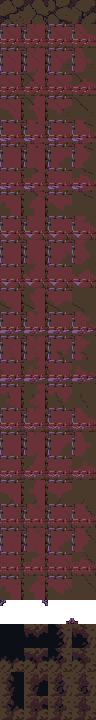
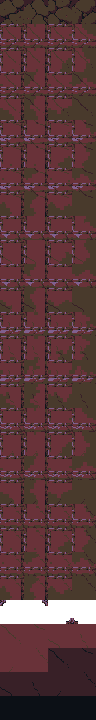
Make dungeon wall shading continuous across tile seams
Replace repeating directional cutouts with world-space contours sampling native PNG top, body and dark textures. Preserve angled coping and facades, and compose walls at native resolution before fractional scaling.

Re-record render.golden.json and render-calls.golden.json for the 20 intended sprite interior frames; all 85 other frames remain unchanged. Verify native texels, seam continuity, diagonal locality, fractional scaling, themes and toggles; update art, rendering, testing and gameplay docs.

Changed region(s): [[0.0, 0.8556, 1.0, 1.0]]

diff --git a/src/sprite-dungeon.ts b/src/sprite-dungeon.ts
@@ -3,7 +3,7 @@ import { tileRandom } from "./random.ts";
 import { themeAt, type TerrainTile } from "./themes.ts";
 import { kitImage } from "./sprite-kit.ts";
 import { wallAdjacencyMask } from "./area1-tileset.ts";
-import type { DungeonWallDepth } from "./wall-depth.ts";
+import { dungeonWallBands, type DungeonWallProfile } from "./wall-depth.ts";
 
 export const DUNGEON_MATERIALS = ["masonry", "stone", "earth"] as const;
 export type DungeonMaterial = typeof DUNGEON_MATERIALS[number];
@@ -24,7 +24,8 @@ export const DUNGEON_EDGE_ATLAS = "dungeon-edges";
 export const DUNGEON_BLEND_ATLAS = "dungeon-blends";
 export const DUNGEON_INFILL_ATLAS = "dungeon-infill";
 export const DUNGEON_CORE_FRAME = 12;
-export const DUNGEON_PADDING_FRAME = DUNGEON_CORNER_FRAME + 4;
+export const DUNGEON_CAP_FRAME = DUNGEON_CORNER_FRAME + 4;
+export const DUNGEON_SHADE_FRAME = DUNGEON_CAP_FRAME + DUNGEON_WALL_VARIANTS;
 
 /** Smooth, coordinate-hashed material patches, independent of generation
  * and its random stream. Both wall and floor at a position share material. */
@@ -101,26 +102,76 @@ export function drawDungeonFrame(c: CanvasRenderingContext2D, image: HTMLImageEl
   c.restore();
 }
 
+const wallImages = new Map<string, HTMLCanvasElement>();
+/** Compose at native resolution before scaling: clipping directly into a
+ * fractional-size ground cache can leave hairlines between pixel clusters. */
+export function drawDungeonGround(c: CanvasRenderingContext2D, tile: TerrainTile, diagonals: readonly DungeonDiagonal[] = [], profile?: DungeonWallProfile): boolean {
+  if (!tile.wall || !profile || profile.depth === 2 || typeof document === "undefined") return paintDungeonGround(c, tile, diagonals, profile);
+  const n = tile.neighbors;
+  const key = [tile.mode, themeAt(tile.mode, tile.height, tile.x, tile.y, tile.seed).decor, tile.seed, tile.x, tile.y,
+    n?.northWall, n?.eastWall, n?.southWall, n?.westWall, diagonals.join(","), profile.openings].join(":");
+  let canvas = wallImages.get(key);
+  if (!canvas) {
+    canvas = document.createElement("canvas"); canvas.width = canvas.height = 24;
+    const ctx = canvas.getContext("2d");
+    if (!ctx || !paintDungeonGround(ctx, tile, diagonals, profile)) return false;
+    if (wallImages.size >= 512) wallImages.clear();
+    wallImages.set(key, canvas);
+  }
+  c.save(); c.imageSmoothingEnabled = false; c.drawImage(canvas, 0, 0, 24, 24); c.restore();
+  return true;
+}
+
 /** Four quiet floors, six variants of sixteen wall shapes, and corners.
  * South-facing facades occupy eight pixels; north/side lips are shallow.
  * Everything stays inside the existing tile and collision footprint. */
-export function drawDungeonGround(c: CanvasRenderingContext2D, tile: TerrainTile, diagonals: readonly DungeonDiagonal[] = [], depth: DungeonWallDepth = 0, paddingMask = 15) {
+function paintDungeonGround(c: CanvasRenderingContext2D, tile: TerrainTile, diagonals: readonly DungeonDiagonal[], profile?: DungeonWallProfile) {
   const { mode, height, x, y, seed } = tile, tone = themeAt(mode, height, x, y, seed).decor;
   const images = imagesFor(mode, tone);
   if (!images) return false;
   const material = dungeonMaterial(mode, x, y, seed);
   const image = material === "earth" ? images.earth : images.surface;
-  if (tile.wall && depth === 2) { drawDungeonFrame(c, images.infill, DUNGEON_CORE_FRAME); return true; }
+  if (tile.wall && profile?.depth === 2) { drawDungeonFrame(c, images.infill, DUNGEON_CORE_FRAME); return true; }
   const edges = images.edges;
   const n = tile.neighbors;
   const mask = wallAdjacencyMask({ northWall: !!n?.northWall, eastWall: !!n?.eastWall, southWall: !!n?.southWall, westWall: !!n?.westWall });
-  const frame = tile.wall ? depth === 1 ? DUNGEON_PADDING_FRAME + paddingMask : DUNGEON_WALL_FRAME + dungeonWallVariant(x, y, seed) * 16 + mask : dungeonFloorFrame(x, y, seed);
-  drawDungeonFrame(c, image, frame);
-  const joins = dungeonMaterialJoins(tile, diagonals), blendVariant = dungeonWallVariant(x, y, seed) % 4;
-  if (joins.sides) drawMaterialBlend(c, images.earth, frame, images.blends, blendVariant * 20 + joins.sides);
-  for (let corner = 0; corner < 4; corner++) if (joins.corners & (1 << corner))
-    drawMaterialBlend(c, images.earth, frame, images.blends, blendVariant * 20 + 16 + corner);
-  if (tile.wall && !depth) {
+  const variant = dungeonWallVariant(x, y, seed);
+  const frame = tile.wall ? DUNGEON_WALL_FRAME + variant * 16 + mask : dungeonFloorFrame(x, y, seed);
+  const joins = dungeonMaterialJoins(tile, diagonals), blendVariant = variant % 4;
+  const surface = (frame: number) => {
+    drawDungeonFrame(c, image, frame);
+    if (joins.sides) drawMaterialBlend(c, images.earth, frame, images.blends, blendVariant * 20 + joins.sides);
+    for (let corner = 0; corner < 4; corner++) if (joins.corners & (1 << corner))
+      drawMaterialBlend(c, images.earth, frame, images.blends, blendVariant * 20 + 16 + corner);
+  };
+  if (tile.wall && profile) {
+    drawDungeonFrame(c, images.infill, DUNGEON_CORE_FRAME);
+    const bands = dungeonWallBands(profile, x, y, seed);
+    for (const band of [2, 1, 0]) {
+      c.save(); c.beginPath(); let visible = false;
+      for (let row = 0; row < 12; row++) for (let col = 0; col < 12;) {
+        if (bands[row * 12 + col] !== band) { col++; continue; }
+        const start = col++;
+        while (col < 12 && bands[row * 12 + col] === band) col++;
+        c.rect(start * 2, row * 2, (col - start) * 2, 2); visible = true;
+      }
+      if (visible) {
+        c.clip();
+        surface(band === 0 ? DUNGEON_CAP_FRAME + variant : band === 1 ? DUNGEON_WALL_FRAME + variant * 16 + 15 : DUNGEON_SHADE_FRAME + variant);
+      }
+      c.restore();
+    }
+    // Keep physical coping/facades independent of the inward shade contour.
+    if (mask !== 15) {
+      c.save(); c.beginPath();
+      if (!(mask & 1)) c.rect(0, 0, 24, 3);
+      if (!(mask & 2)) c.rect(21, 0, 3, 24);
+      if (!(mask & 4)) c.rect(0, 15, 24, 9);
+      if (!(mask & 8)) c.rect(0, 0, 3, 24);
+      c.clip(); surface(frame); c.restore();
+    }
+  } else surface(frame);
+  if (tile.wall && (!profile || profile.depth === 0)) {
     for (let corner = 0; corner < 4; corner++) {
       const diagonal = diagonals[corner];
       // A diagonal opening meets either two joined sides (concave) or two

diff --git a/tests/dungeon-sprites.test.ts b/tests/dungeon-sprites.test.ts
@@ -2,7 +2,7 @@ import assert from "node:assert/strict";
 import { readFileSync } from "node:fs";
 import test from "node:test";
 import { DUNGEON_ATLASES, DUNGEON_EDGE_ATLAS, DUNGEON_BLEND_ATLAS, DUNGEON_INFILL_ATLAS, DUNGEON_CORNER_FRAME, drawDungeonGround, dungeonAtlasId, dungeonDiagonals, dungeonFloorFrame, dungeonMaterial, dungeonMaterialJoins, dungeonWallVariant } from "../src/sprite-dungeon.ts";
-import { dungeonWallDepth, dungeonWallProfile } from "../src/wall-depth.ts";
+import { dungeonWallBands, dungeonWallDepth, dungeonWallProfile } from "../src/wall-depth.ts";
 import { paintTile, type BoardLook } from "../src/tile-painters.ts";
 import { WaterReflections, type ReflectionScene } from "../src/decor-reflections.ts";
 import type { TileDecor } from "../src/decor.ts";
@@ -30,11 +30,33 @@ test("wall depth follows real air across materials, including diagonals, while m
   }
   assert.equal(dungeonWallDepth({ tile: () => undefined }, 0, 0), 2, "world bounds do not create a false bright edge");
   const world = { tile: (x: number, y: number) => ({ kind: x === 0 && y === 0 ? "floor" as const : "wall" as const }) };
-  assert.deepEqual(dungeonWallProfile(world, 0, 2), { depth: 1, paddingMask: 4 }, "shade attaches toward the opening to the south");
-  assert.deepEqual(dungeonWallProfile(world, 2, 0), { depth: 1, paddingMask: 8 });
-  assert.deepEqual(dungeonWallProfile(world, 2, 2), { depth: 1, paddingMask: 12 }, "diagonal openings join both shadow bands");
-  assert.deepEqual(dungeonWallProfile(world, -2, -2), { depth: 1, paddingMask: 3 });
-  assert.deepEqual(dungeonWallProfile(world, 0, 1), { depth: 0, paddingMask: 0 });
+  assert.deepEqual(dungeonWallProfile(world, 0, 2), { depth: 1, openings: 1 << 2 }, "shade attaches toward the actual opening to the south");
+  assert.deepEqual(dungeonWallProfile(world, 2, 0), { depth: 1, openings: 1 << 10 });
+  assert.deepEqual(dungeonWallProfile(world, 2, 2), { depth: 1, openings: 1 }, "diagonal air retains its precise corner position");
+  assert.deepEqual(dungeonWallProfile(world, -2, -2), { depth: 1, openings: 1 << 24 });
+  assert.deepEqual(dungeonWallProfile(world, 0, 1), { depth: 0, openings: 1 << 7 });
+});
+
+test("wall contours cross seams continuously without repeating holes or illuminating entire diagonal edges", () => {
+  const straight = { tile: (_x: number, y: number) => ({ kind: y < 0 ? "floor" as const : "wall" as const }) };
+  for (const seed of [1, 1107, 8903]) for (let x = -8; x < 8; x++) {
+    const bands = (x: number, y: number) => dungeonWallBands(dungeonWallProfile(straight, x, y), x, y, seed);
+    for (const y of [0, 1]) {
+      const current = bands(x, y), next = bands(x + 1, y);
+      for (let row = 0; row < 12; row++)
+        assert.ok(Math.abs(current[row * 12 + 11] - next[row * 12]) <= 1, "adjacent native clusters cannot jump across shade levels at a tile seam");
+      for (let col = 0; col < 12; col++) for (let row = 1; row < 12; row++)
+        assert.ok(current[row * 12 + col] <= current[(row - 1) * 12 + col], "no isolated dark holes inside a connected band");
+    }
+    assert.ok([...bands(x, 0)].every(b => b < 2), "the exposed tile keeps a broad, solid material body");
+    assert.ok([...bands(x, 2)].every(b => b === 3), "farther solids are uniformly black");
+    assert.deepEqual(bands(x, 1), bands(x, 1), "contours are stable on redraw");
+  }
+  const corner = { tile: (x: number, y: number) => ({ kind: !x && !y ? "floor" as const : "wall" as const }) };
+  const bands = dungeonWallBands(dungeonWallProfile(corner, 2, 2), 2, 2, 1107);
+  assert.equal(bands[11 * 12], 2, "the nearby southwest corner receives the dark transition");
+  assert.equal(bands[11], 3, "the unrelated northeast corner stays black");
+  assert.ok([...bands].filter(b => b !== 3).length < 36, "one diagonal opening cannot light two whole tile edges");
 });
 
 test("Delve stone and earth form repeatable contiguous patches rather than independent tile noise", () => {
@@ -126,10 +148,8 @@ test("wall variation is seeded, diagonal corners read real openings, and corner 
     frames.length = 0;
     assert.deepEqual(dungeonMaterialJoins(floor, ["earth", "earth", "earth", "earth"]), { sides: 0, corners: 15 });
     assert.deepEqual(dungeonMaterialJoins({ ...floor, neighbors: { northWall: true, eastWall: true, southWall: true, westWall: true } }, ["earth", "earth", "earth", "earth"]), { sides: 0, corners: 0 }, "soil corners cannot cross a wall");
-    for (const depth of [1, 2] as const) {
-      frames.length = 0; drawDungeonGround(c, tile, [], depth, 4);
-      assert.deepEqual(frames, [depth === 2 ? 12 : 108], "directional material shade precedes the shared black core");
-    }
+    frames.length = 0; drawDungeonGround(c, tile, [], { depth: 2, openings: 0 });
+    assert.deepEqual(frames, [12], "deep solids use only the shared black core");
   } finally {
     if (original) Object.defineProperty(globalThis, "Image", original); else Reflect.deleteProperty(globalThis, "Image");
   }

diff --git a/src/wall-depth.ts b/src/wall-depth.ts
@@ -1,22 +1,50 @@
 import type { Tile } from "./entities.ts";
+import { tileRandom } from "./random.ts";
 
 export type DungeonWallDepth = 0 | 1 | 2;
+export type DungeonWallProfile = { depth: DungeonWallDepth; openings: number };
 
-/** The shaded band connects to the real opening instead of scattering
- * isolated fragments. Missing cells and all wall materials stay solid. */
-export function dungeonWallProfile(world: { tile(x: number, y: number): Tile | undefined }, x: number, y: number): { depth: DungeonWallDepth; paddingMask: number } {
-  let paddingMask = 0;
-  for (const radius of [1, 2] as const) for (let dy = -radius; dy <= radius; dy++) for (let dx = -radius; dx <= radius; dx++) {
-    if (Math.max(Math.abs(dx), Math.abs(dy)) !== radius) continue;
+/** Keep the actual 5x5 opening positions, not just four directions: one
+ * diagonal opening must never illuminate an entire unrelated tile edge. */
+export function dungeonWallProfile(world: { tile(x: number, y: number): Tile | undefined }, x: number, y: number): DungeonWallProfile {
+  let depth: DungeonWallDepth = 2, openings = 0;
+  for (let dy = -2; dy <= 2; dy++) for (let dx = -2; dx <= 2; dx++) {
+    if (!dx && !dy) continue;
     const tile = world.tile(x + dx, y + dy);
     if (!tile || tile.kind === "wall") continue;
-    if (radius === 1) return { depth: 0, paddingMask: 0 };
-    if (dy === 2) paddingMask |= 1;
-    if (dx === 2) paddingMask |= 2;
-    if (dy === -2) paddingMask |= 4;
-    if (dx === -2) paddingMask |= 8;
+    openings |= 1 << ((dy + 2) * 5 + dx + 2);
+    if (Math.max(Math.abs(dx), Math.abs(dy)) === 1) depth = 0;
+    else if (depth === 2) depth = 1;
   }
-  return { depth: paddingMask ? 1 : 2, paddingMask };
+  return { depth, openings };
 }
 
 export const dungeonWallDepth = (world: { tile(x: number, y: number): Tile | undefined }, x: number, y: number) => dungeonWallProfile(world, x, y).depth;
+
+/** Two-pixel clusters cut literal PNG textures into three hard shade bands.
+ * Distance is measured to air rectangles in world space, so contours cross
+ * tile seams and round corners continuously, including negative coordinates.
+ * Only the contour varies; lighting and texture orientation never rotate. */
+export function dungeonWallBands(profile: DungeonWallProfile, x: number, y: number, seed: number): Uint8Array {
+  const air: [number, number][] = [];
+  for (let dy = -2; dy <= 2; dy++) for (let dx = -2; dx <= 2; dx++)
+    if (profile.openings & (1 << ((dy + 2) * 5 + dx + 2))) air.push([dx * 24, -dy * 24]);
+  const bands = new Uint8Array(144);
+  // A native tile fits within one noise cell; sample its corners just once.
+  const ix = Math.floor(x / 2), iy = Math.floor(-y / 2);
+  const a = tileRandom(ix, iy, seed ^ 0x48d31), b = tileRandom(ix + 1, iy, seed ^ 0x48d31);
+  const c = tileRandom(ix, iy + 1, seed ^ 0x48d31), d = tileRandom(ix + 1, iy + 1, seed ^ 0x48d31);
+  for (let py = 0; py < 24; py += 2) for (let px = 0; px < 24; px += 2) {
+    let distance = Infinity;
+    for (const [ax, ay] of air) {
+      const dx = Math.max(ax - px - 1, px + 1 - ax - 24, 0);
+      const dy = Math.max(ay - py - 1, py + 1 - ay - 24, 0);
+      distance = Math.min(distance, Math.sqrt(dx * dx + dy * dy));
+    }
+    // Broad, gently stepped contours rather than per-tile cutout stamps.
+    const u = (x * 24 + px + 1) / 48 - ix, v = (-y * 24 + py + 1) / 48 - iy;
+    const relief = (((a + (b - a) * u) * (1 - v) + (c + (d - c) * u) * v) - .5) * 6;
+    bands[py / 2 * 12 + px / 2] = distance <= 14 + relief ? 0 : distance <= 28 + relief ? 1 : distance <= 42 + relief ? 2 : 3;
+  }
+  return bands;
+}

diff --git a/src/tile-painters.ts b/src/tile-painters.ts
@@ -87,8 +87,8 @@ function paintGround(c: CanvasRenderingContext2D, world: TileWorld, t: Tile, x: 
   const wall = t.kind === "wall";
   const terrain = { mode: look.mode, height: look.height, seed: look.seed, x, y, wall, empty: t.kind === "floor", neighbors };
   if (look.styledSprites && !look.spritesOff) {
-    const profile = wall ? dungeonWallProfile(world, x, y) : { depth: 0 as const, paddingMask: 0 };
-    if (drawDungeonGround(c, terrain, dungeonDiagonals(world, look.mode, x, y, look.seed), profile.depth, profile.paddingMask)) return true;
+    const profile = wall ? dungeonWallProfile(world, x, y) : undefined;
+    if (drawDungeonGround(c, terrain, dungeonDiagonals(world, look.mode, x, y, look.seed), profile)) return true;
   }
   // Every biome has a PNG floor/wall set. Images load asynchronously; until
   // ready (or if an asset fails), the procedural renderer remains a complete

diff --git a/docs/agents/rendering.md b/docs/agents/rendering.md
@@ -30,7 +30,7 @@ The active forest draws dynamic back grass, small foliage, crowns, buildings, ro
 Wall foliage remains with decoration off, while optional floor plants and dynamic grass follow that setting.
 Sprites off, board sprites off and other Game themes retain their original forest; UI themes gate the interface independently, and Defend is excluded from this forest extension.
 `sprite-dungeon.ts` supplies dedicated interior PNG materials: fitted Tower masonry and contiguous Delve stone/earth patches, selected with coordinate hashes independent of generation.
-Twenty-one 96 × 720 atlases contain four 24-pixel floor variants, six versions of all sixteen wall-neighbor masks, four native six-pixel corner overlays and sixteen directional shade joins: ten biome ramps for masonry, ten for rough stone and one brown earth set.
+Twenty-one 96 × 720 atlases contain four 24-pixel floors, six versions of all sixteen wall-neighbor masks, four native six-pixel corners, six full tops, six dark tops and four reserved core frames: ten biome ramps for masonry, ten for rough stone and one brown earth set.
 `dungeonWallVariant` chooses six authored top and south-facing facade pairs by coordinate hash, so long connected walls have seeded variety without rotating their lighting or altering geometry.
 Masonry varies broad fitted blocks and worn joints; bedrock uses continuous quiet planes with sparse fractures, while earth varies compact layers and embedded stone.
 A shared 96 × 216 atlas retains the original contact-shadow masks and soil reference pieces.
@@ -41,12 +41,16 @@ Masked material bakes are cached with a 512-entry limit; no gradients, soft alph
 Wall corners draw only where a diagonal opening meets two joined or two exposed sides; straight edges and missing diagonal terrain retain their existing lips.
 Diagonal material patches draw where earth touches stone at a corner without an existing cardinal blend or a change between open floor and blocking wall.
 Walls expose shallow three-pixel north/side lips and eight-pixel south-facing facades, keeping a steep top-down angle inside the existing collision tile; joined sides have no facade.
-Exposed wall texture reaches up to eighteen pixels into its tile over a full shaded material body, with stepped inward contours.
+Exposed wall texture recedes through three hard shade levels, with connected two-pixel contours and a broad material body.
 The shadow body continues beyond the bright rim, so thin walls remain solid and wider walls recede through a fuller intermediate shade before black.
-`wall-depth.ts` checks two Chebyshev rings of actual world tiles: neighboring air exposes the wall, air two tiles away selects directional shaded material, and farther interiors use a flat shared near-black PNG.
-`dungeonWallProfile` supplies the north/east/south/west mask of those second-ring openings; diagonal air combines both bands and missing cells never create a false edge.
+`wall-depth.ts` records actual openings in a 5 × 5 neighborhood, treating neighboring air as exposed wall, second-ring air as transition and farther solids as core.
+`dungeonWallBands` measures native pixel distance to those air rectangles, preserving the position of diagonal openings instead of illuminating two entire edges.
 Every material counts as connected solid, missing cells remain solid, and doors/items/stairs count as air; generation and collision are unchanged.
-Each material atlas appends sixteen shade masks at `DUNGEON_PADDING_FRAME`, assembled from four separately lit directional PNGs and tinted with its biome ramp.
+The contour thresholds lie at 14, 28 and 42 native pixels from air, with a small coordinate-hashed displacement interpolated over 48-pixel world cells to avoid repeating tile-shaped cutouts.
+Binary clipping selects literal PNG texels from full tops at `DUNGEON_CAP_FRAME`, the existing shaded wall body and dark tops at `DUNGEON_SHADE_FRAME`; only geometry varies, never color interpolation or lighting direction.
+Physical coping and south-facing facades draw separately over the shade bands, retaining their original height and upper-left lighting.
+Each complete wall is composed once at native 24 × 24 resolution before nearest-neighbor scaling, so fractional ground-cache transforms cannot antialias the internal clipping boundaries.
+Wall-image bakes have a 512-entry cache keyed by art, seed, coordinates and actual opening geometry.
 Material blending continues through the shaded band as well as exposed wall tops.
 `dungeon-infill.png` retains the common core and earlier sparse reference pieces (96 × 96); the deep core stays flat and is never biome-tinted.
 The styled decor bake skips core walls so moss cannot repaint their flat interiors; Sprites off and other Game themes retain their original decor.
@@ -59,7 +63,7 @@ The water mirror receives the effective board-art key too, refreshing cached wal
 Its corner components come from `assets/game-sprites/dungeon-corners.png`, sharing the existing native grid, upper-left light and restricted material ramps.
 Its six top/facade pairs per material come from `assets/game-sprites/dungeon-wall-variations.png`; floor, coping and corner components retain their existing sources.
 The shared core and stepped blend masks come from `assets/game-sprites/dungeon-material-blends.png`.
-The fuller, connected shade bands come from `assets/game-sprites/dungeon-wall-shading.png`, with fixed upper-left light in each authored direction.
+The older `assets/game-sprites/dungeon-wall-shading.png` remains an art reference; repeated directional cutout stamps are no longer deployed.
 
 Board drawing (`Renderer`, frames, lighting, decor, popups, tile caches, the forest outside, weather), the render goldens, and the Medieval and Neon themes.
 

diff --git a/docs/art/ui-sprites.md b/docs/art/ui-sprites.md
@@ -65,7 +65,7 @@ The forest loads its materials and foliage together before removing the older ba
 The old SVG and PNG artwork stays available for unloaded images, Sprites off and theme overrides.
 Tower interiors use native fitted masonry floors and connected walls; Delve uses rough bedrock and compact earth for both floors and walls, with coordinate-hashed contiguous material patches.
 The [dungeon material source](../../assets/game-sprites/dungeon-materials.png) supplies four floor variations, wall-top variations, south-facing facade strips and coping for each material, plus stepped soil/contact strips.
-Twenty-one 96 × 720 deployed PNG atlases hold four floors, six variations of sixteen wall-neighbor frames, four corner overlays and sixteen directional shade joins each.
+Twenty-one 96 × 720 deployed PNG atlases hold four floors, six variations of sixteen wall-neighbor frames, four corners, six full tops, six dark tops and four reserved core frames each.
 One shared 96 × 216 PNG retains sixteen soil borders, sixteen floor-contact masks and four diagonal soil corners.
 Two additional atlases add eighty material masks and sixteen infill/core frames (2,652 native frames total).
 The [wall variation source](../../assets/game-sprites/dungeon-wall-variations.png) supplies six distinct top/facade pairs per material: broad fitted masonry, continuous bedrock with sparse fractures and layered earth with embedded stones.
@@ -77,9 +77,11 @@ Ten palette ramps retain each masonry and rock biome's identity, while earth kee
 Use axis-aligned 24-pixel tiles seen at a steep top-down angle, visible wall tops, shallow three-pixel north/side lips and eight-pixel south-facing wall facades; no isometric diamonds or vanishing points.
 Connected walls hide shared edges, and floor centers remain quiet and flat beneath items; soil borders have stepped binary transparency and contact shadows stay inside the floor tile.
 The [material blend source](../../assets/game-sprites/dungeon-material-blends.png) supplies the original infill references and four stepped transition silhouettes.
-The [wall shading source](../../assets/game-sprites/dungeon-wall-shading.png) adds connected north/east/south/west shadow bands for each material, with fixed lighting and native pixels.
-Native cluster cleanup removes single-pixel sampling speckle before palette remapping; shadow shapes stay broad and connected.
-Wall texture extends up to eighteen pixels inward over a full shaded body, followed by a connected medium-dark band before the flat black core; do not reduce the visible wall to a thin outline.
+The [wall shading source](../../assets/game-sprites/dungeon-wall-shading.png) is retained as reference; its repeated directional cutout stamps are replaced by continuous contours cut from the original wall textures.
+Shade boundaries follow distance to real open tiles in world space, using two-pixel clusters and small variations over 48-pixel cells; neighboring tiles must never restart the shadow pattern.
+Full PNG top textures recede through three hard palette levels at approximately 14, 28 and 42 pixels from air, then meet the flat black core; preserve broad walls without repeating holes, isolated fragments or illuminated whole edges from one diagonal opening.
+Coping and facades remain independent of inward shading, and every shade level uses literal PNG texels through binary clipping, without blur or interpolated colors.
+Compose the complete wall at native resolution before scaling it once with nearest-neighbor sampling; never clip separate shade bands after a fractional display transform.
 The [Celeste tileset analysis](https://aran.ink/posts/celeste-tilesets) informed the edge/padding/core treatment: material detail hugs exposed surfaces, shaded material bridges the inward edge, and deep solids share one flat near-black fill.
 Our original PNGs retain the angled top-down perspective and native 24-pixel grid; wall depth follows actual open tiles across all materials.
 Earth overlaps stone through binary PNG masks on floors and exposed walls, replacing square material seams without blur, dithering or a rim between connected walls.
@@ -136,7 +138,7 @@ Run `node --experimental-transform-types tools/prepare-combat-sprites.mjs` for t
 Run `node --experimental-transform-types tools/prepare-board-marks.mjs` for Target, Ignore, skipped and blocked marks.
 Run `node --experimental-transform-types tools/prepare-environment-sprites.mjs` for moss, water, vine leaves, flowers and glowing cap variants.
 Run `node --experimental-transform-types tools/prepare-forest-sprites.mjs` for the twenty forest materials/objects and two enormous entrance bases; measured crops, binary alpha and palette normalization reproduce the deployed PNGs.
-Run `node --experimental-transform-types tools/prepare-dungeon-sprites.mjs` for the interior material atlases, all six connected-wall variants, directional shaded transitions, ragged material masks, dark core, and the cardinal/diagonal corner and contact pieces.
+Run `node --experimental-transform-types tools/prepare-dungeon-sprites.mjs` for the interior material atlases, all six connected-wall variants, full top/shade textures, ragged material masks, dark core, and the cardinal/diagonal corner and contact pieces.
 Regenerate the original font with `python tools/prepare-pixel-font.py` using FontTools with WOFF2 support (`fonttools[woff]`); no font-building dependency is needed at runtime.
 The full game exporter preserves dungeon, forest, environment, combat, badge, Shrine, Equipment UI and UI-detail assets; rerun their own exporter when a source atlas changes.
 That exporter also packs the terrain atlas and produces `src/sprite-terrain-index.ts`.

diff --git a/docs/agents/testing.md b/docs/agents/testing.md
@@ -49,6 +49,7 @@ The appended `spriteForestTower` and `spriteForestDelve` scenes add ten browser 
 `tests/dungeon-sprites-browser.mjs` starts its own server for literal floor/relief PNG texels, transparent transition centers, native atlases, delayed/failed material loads and real Tower/Delve interiors at phone/desktop widths.
 It changes sprite, board, decoration and independent theme settings on a reused Renderer, verifies exact legacy-pixel restoration and checks that drawing never changes tiles; its monotonically advancing warmup settles the Delve camera and older image caches before comparing frames.
 `tests/dungeon-sprites.test.ts` checks atlas dimensions, contiguous stone/earth patches and all sixteen native wall-frame selections across six seeded variants, including the floor under items and doors.
-It also checks seeded wall variation, two-ring wall depth and directional opening masks, diagonal opening queries, convex/concave corner eligibility, straight-side and world-edge exclusions, and material patches staying out of blocking walls.
-The browser suite checks six distinct exposed north rims and south-facing facades, flat shared black cores, broad shaded wall bodies and directional shade receding toward black, literal masked material texels, clear blend centers and six-pixel corner bounds, then reviews the expanded native sheets.
+It also checks seeded wall variation, two-ring wall depth and exact opening positions, continuous shade contours across positive/negative tile seams, monotonic straight-wall shading without isolated holes, diagonal locality, convex/concave corner eligibility, world-edge exclusions and material patches staying out of blocking walls.
+The browser suite checks six distinct exposed north rims and south-facing facades, flat shared black cores, broad shaded wall bodies, literal native texels in every contour band and fully rendered adjoining Tower/Delve walls without repeated black cutouts or transparent seams.
+It also verifies literal material blends, clear blend centers, six-pixel corner bounds and pixel-exact wall scaling at fractional sizes/offsets, then reviews the native sheets.
 The appended `spriteDungeonMasonry` and `spriteDungeonCave` golden scenes cover real interior layouts; the existing `spriteCombat` and `spriteEnvironment` frames change only for the intended new ground/relief.

diff --git a/docs/gameplay/first-steps.md b/docs/gameplay/first-steps.md
@@ -20,7 +20,8 @@ Inside the Tower, the Classic sprite kit uses fitted stone floors and joined mas
 In the Delve, rough stone and packed earth form adjoining patches of floors and walls, with stepped soil edges and matching biome colors.
 Walls have six variations of their tops and south-facing faces, with fitted masonry, broad fractured bedrock or packed earth, plus matching diagonal corner pieces.
 Earth and stone interlock at their edges and diagonal joins on both floors and exposed walls.
-Walls keep a broad textured edge and a full shaded body, then a connected band of darker stone or earth recedes into the shared black interior.
+Walls keep a broad textured edge and recede through connected shades of stone or earth into the shared black interior.
+The shading follows room boundaries continuously across tiles and around corners, while south-facing wall faces keep their visible height.
 These interior tiles remain with environmental decoration off; torchlight follows the selected floor's seams, and movement, doors and map layouts stay the same.
 
 ## The first runs
